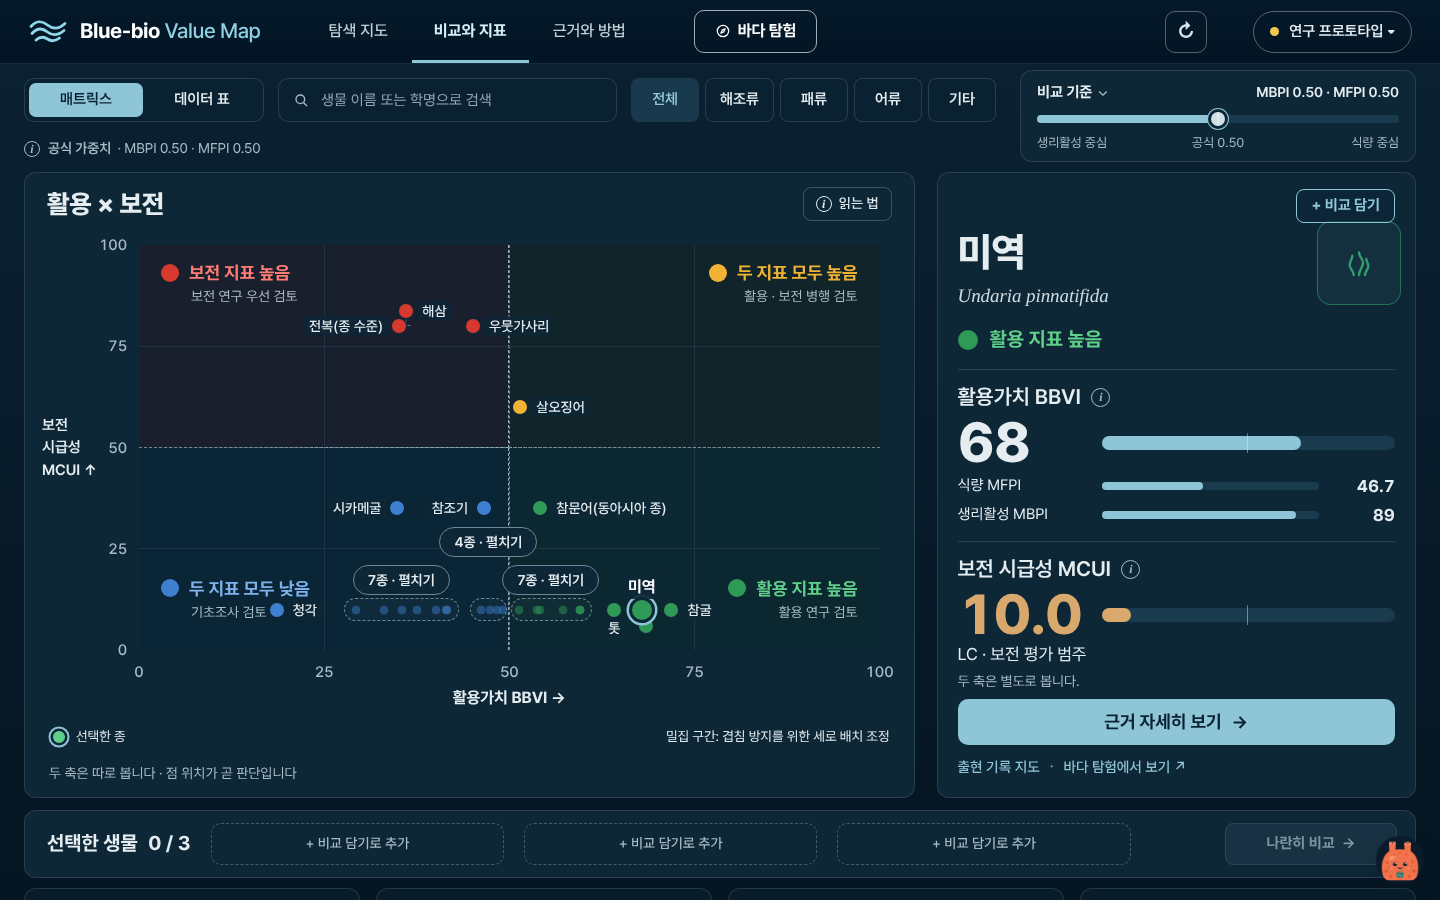
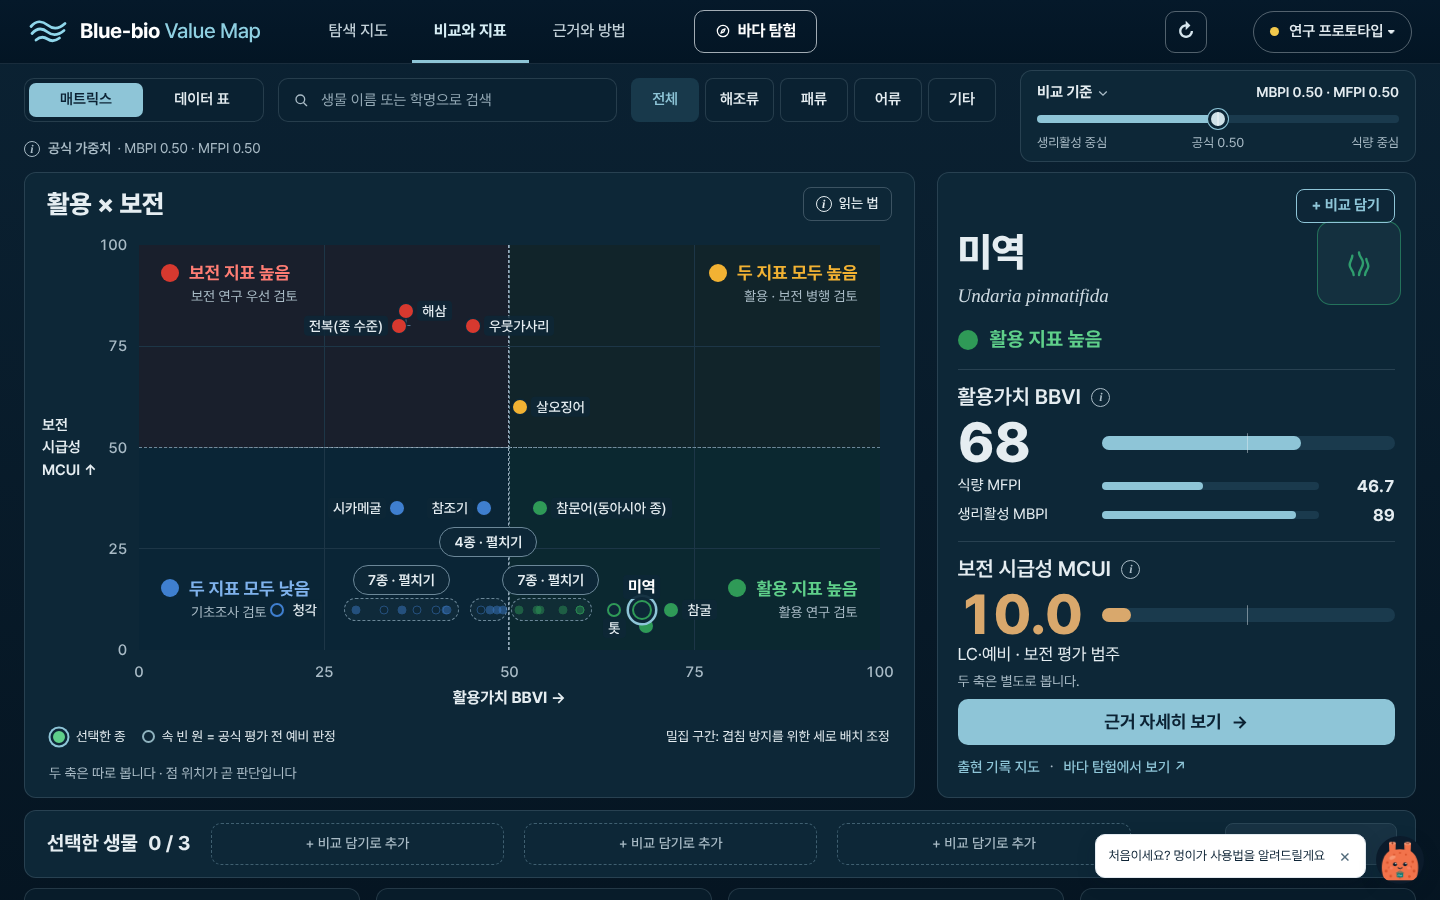
화면 캡처: 10건(1~10번, 5번 제외) 마지막 판으로
- verification/2026-10-19-site-v3-fixes/<번호>/에 28ea67b 화면을 1440 · 1280×720 · 390으로 찍어 둠
  1번 접기 04 '검증 기록 8건'과 '검증 기록 보기' 이동, 2번 감태·미역·해삼 MCUI 칸과 매트릭스 속 빈 원,
  3번 감태·미역·참굴 MBPI 칸 첫 줄, 4·6·7·8·10번 첫 화면·바닥글·근거와 방법·안내
- 9번 캡처는 1~3번 뒤로 다시 찍음(숫자는 9번 표와 같고 예비 10종에 '(LC·예비)'만 더해짐)
- 첫 화면 전체 캡처는 4/gate-first-<폭>.png 하나로 두고 6·7번 README에서 가리킴(같은 그림 중복 제거)

Claude-Session: https://claude.ai/code/session_0152S8PqxCfRvZ4zNu9ULKrn

diff --git a/verification/2026-10-19-site-v3-fixes/README.md b/verification/2026-10-19-site-v3-fixes/README.md
@@ -1,0 +1,26 @@
+# 사이트 v3 평가 대비 수정 10건 화면 캡처 (2026-10-19, PR #240)
+
+LKH가 준 프롬프트 10개(사이트_v3평가대비_수정_프롬프트.zip)의 화면입니다. 모두 이 PR의 마지막 화면 커밋(28ea67b)을 로컬 서버(`dist/`)와
+`dist/live-snapshot.json`으로 띄워 찍었습니다. 숫자는 지금 공개 자료(자료 2026-10-15, 방법 verified-4.19)와 같습니다.
+폴더 번호가 프롬프트 번호입니다. 5번(방문 수 비콘)은 토큰이 비어 있어 화면이 바뀌지 않아 캡처가 없습니다.
+바깥 주소(지도 타일, 위성 영상)는 막고 찍어서 지도 배경이 비어 보일 수 있습니다.
+
+| 폴더 | 무엇 | 파일 |
+|---|---|---|
+| `1/` | 근거와 방법 탭 접기 04 '검증 기록 8건' (1440 · 1280×720 · 390) | `method-checks-<폭>.png`(화면), `method-checks-full-<폭>.png`(접기 전체) |
+| `1/` | 종 상세 '검증 기록 보기'를 눌렀을 때 그 행으로 이동(감태 MCUI, 참굴 MBPI) | `go-checks-<MCUI_preliminary·MBPI>-<1440·390>.png` |
+| `2/` | 종 상세 MCUI 칸: 감태·미역(예비), 해삼(IUCN EN, 예비 아님) | `detail-mcui-<종>-1440.png` |
+| `2/` | 탐색 후보 카드의 '10.0 (LC·예비)', 매트릭스 속 빈 원과 범례, 비교 표 | `explore-card-감태-1440.png`, `compare-matrix-1440.png`, `compare-table-1440.png` |
+| `3/` | 종 상세 MBPI 칸 맨 위 '근거: … 시험 N건 · …'와 'MBPI 검증' 줄: 감태·미역·참굴 | `detail-mbpi-<종>-1440.png` |
+| `4/` | 첫 화면 전체(1440 · 1280×720 · 390) | `gate-first-<폭>.png` |
+| `4/` | 첫 화면 '다음 단계' 목표 시점, 바닥글 운영·갱신·의견 보내기, 정밀 좌표 안내 끝 링크 | `gate-next-*.png`, `footer*.png`, `coord-dialog-*.png` |
+| `6/` | 첫 화면 공개 자료 줄의 MBRIS(1440·1280은 `4/gate-first-*`의 맨 아래 줄), 근거와 방법 '근거의 출발점' | `gate-sources-390.png`, `method-origins-<폭>.png` |
+| `7/` | 첫 화면 '근거 출처 232건'(`4/gate-first-*`), 근거와 방법 '전체 출처 목록 279건'과 구성 줄 | `method-sources-<폭>.png` |
+| `8/` | 근거와 방법 탭 맨 아래 '만든 방법' | `method-made-*.png` |
+| `9/` | 숫자 자릿수(미역): 탐색 목록, 종 상세, 매트릭스·비교 표, 바다 탐험 카드 | `README.md`에 30종 전후 표 |
+| `10/` | 머리글 안내의 버전 줄: 커밋이 빈 지금, 커밋을 넣었을 때(로컬에서 채워 봄) | `notice-pop-empty-1440.png`, `notice-pop-filled-1440.png` |
+
+9번 캡처는 1~3번을 넣은 뒤 다시 찍어서, 미역의 MCUI가 '10.0 (LC·예비)'로 보입니다.
+
+화면 폭 1180px 이상에서는 종 상세가 오른쪽 '근거 자세히 보기' 창에 열리고, 그보다 좁으면 목록 아래 종 상세의 '근거 자세히 보기' 접기 안에
+MCUI·MBPI 칸이 있습니다(감태는 접기 밖). 2·3번 줄은 두 곳 모두 그 칸의 맨 위에 있습니다.
